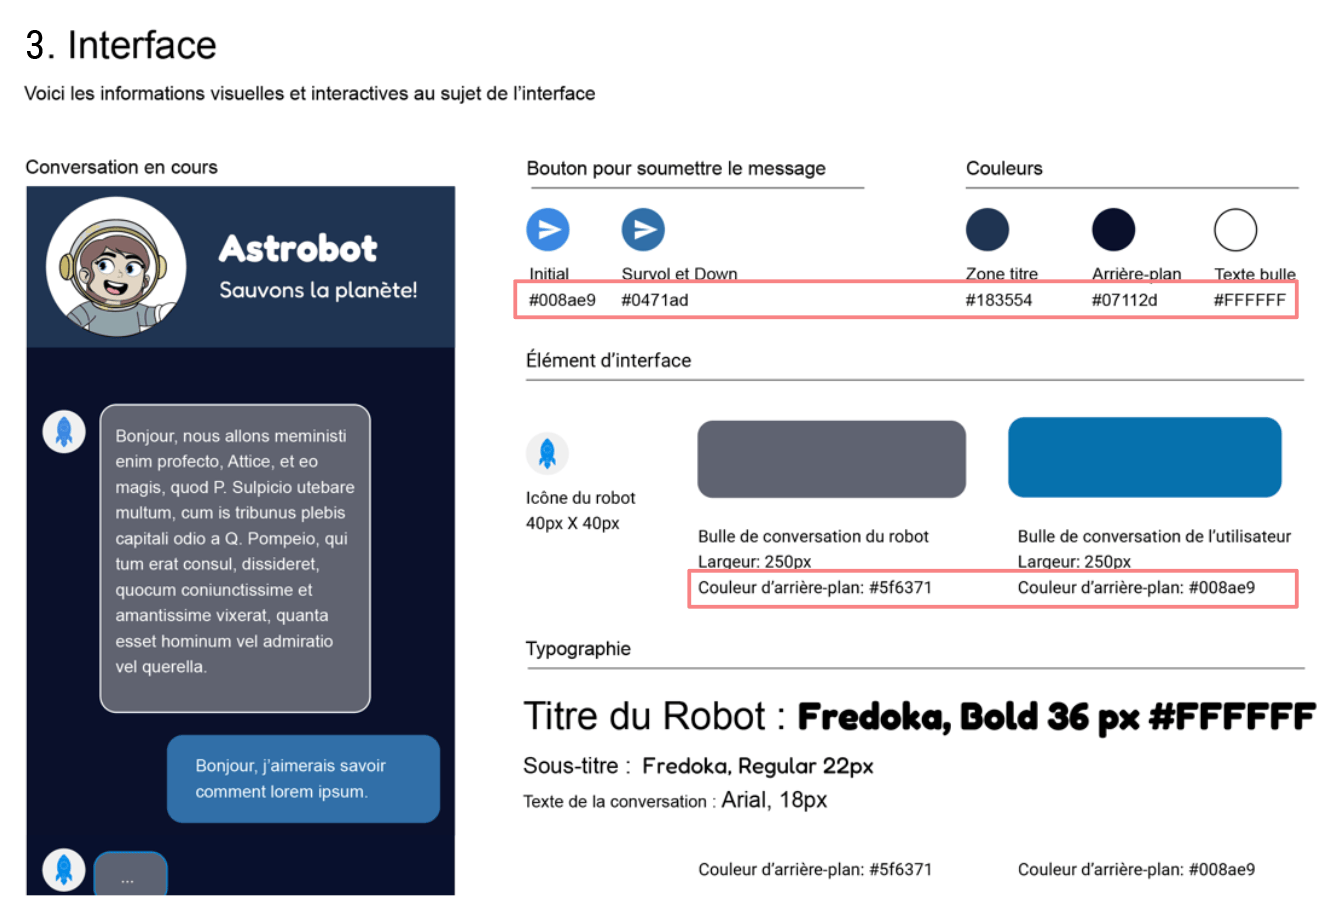
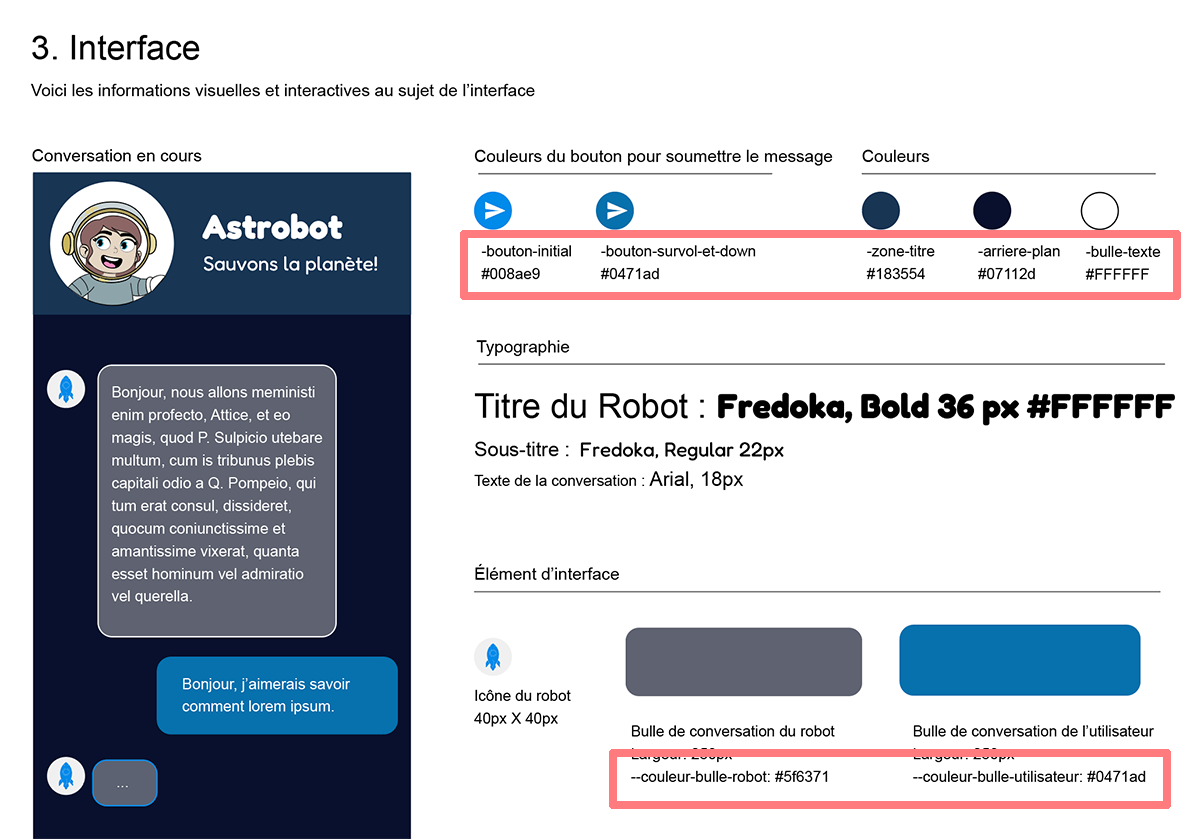
Robot - modifications apres rencontre de profs v2

diff --git a/robot/index.html b/robot/index.html
@@ -70,7 +70,7 @@
       <h1>Assemblage d’un robot conversationnel</h1>
       <div class="row">
         <div class="col-sm-7">
-          <p>Un robot conversationnel est un programme informatique conçu pour simuler une discussion avec un utilisateur.</p>
+          <p>Un robot conversationnel est un programme informatique conçu pour simuler une discussion avec un&nbsp;utilisateur.</p>
           <p>Dans cette activité, tu vas assembler et personnaliser un robot conversationnel.</p>
           <h2>L'activité est divisée en 5&nbsp;parties&nbsp;:</h2>
           <ol type="A">
@@ -109,21 +109,40 @@
             <div class="row">
                 <div class="col">
                   <ol class="procedures" start="3">
-                  <li>Dans ton explorateur de fichiers, <strong>ouvre le dossier</strong> <code>Techno Branche Etu</code> et observe son contenu.
+                  <li>Dans ton explorateur de fichiers, <strong>ouvre le dossier</strong> <code>Techno Branche Etu</code> qui correspond à ton groupe (A, B ou C).</li>
+                  <li><strong>Observe</strong> le contenu de ce dossier.
                     <ul>
-                      <li>Le dossier <code>Exercice</code> contient les fichiers <code>index.html</code> et les sous-dossiers <code>css</code>, <code>images</code>, <code>js</code> et <code>sounds</code>.</li>
                       <li>Le dossier <code>Matériel</code> contient le visuel des six thématiques disponibles.</li>
+                      <li>Le dossier <code>Exercice</code> contient les fichiers <code>index.html</code> et les sous-dossiers <code>css</code>, <code>images</code>, <code>js</code> et <code>sounds</code>.</li>
                     </ul>
                   </li>
                   <li>Ouvre le prototype de départ: dans le dossier <code>Exercice</code>, <strong>double-clique sur le fichier</strong> <code>index.html</code> pour l'ouvrir dans un navigateur.</li>
                   <li><strong>Écris un message</strong> au robot conversationnel dans le champ prévu à cet effet et celui-ci te répondra avec une phrase aléatoire.</li>
                 </ol>
               </div>
-              <div class="col">
+              <div class="col text-center">
                 <figure class="figure">
+                  <img src="images/pc/dossier-depart-windows.jpg" alt="Dossier de départ">
+                  <figcaption>Ouvre le dossier correspondant à ton&nbsp;groupe: A, B ou C.</figcaption>
+                </figure>
+                <div class="row">
+                  <div class="col">
+                    <figure class="figure">
+                  <img src="images/pc/dossier-materiel.jpg" alt="Contenu du dossier Materiel">
+                  <figcaption>Contenu du dossier <code>Materiel</code>.</figcaption>
+                </figure>
+                  </div>
+                  <div class="col">
+                    <figure class="figure">
+                  <img src="images/pc/dossier-exercice.jpg" alt="Contenu du dossier Exercice">
+                  <figcaption>Contenu du dossier <code>Exercice</code>.</figcaption>
+                </figure>
+                  </div>
+                </div>
+                <!-- <figure class="figure">
                   <img src="images/mac/dossier-depart.png" alt="Contenu du dossier de départ">
                   <figcaption>Contenu du dossier de départ.</figcaption>
-                </figure>
+                </figure> -->
               </div>
             </div>
             
@@ -146,7 +165,6 @@
             <img class="me-3" src="images/illustrator.svg" alt="Adobe Illustrator" width="80">
             <div>
               <p class="section-intro">Créer l’identité visuelle de ton robot conversationnel avec <strong>Adobe Illustrator, un logiciel de création graphique vectorielle.</strong></p>
-              <p>Toutes les illustrations que tu vas observer dans les prochaines étapes ont été conçues par une personne diplômée du programme TIM. Leur conception fait partie des compétences développées dans le programme.</p>
               
             </div>
           </div>
@@ -157,11 +175,12 @@
             <div class="row">
               <div class="col">
                 <p>Le dossier <code>Matériel</code> contient un fichier Illustrator pour chacune des six thématiques proposées.</p>
-                <p>Les noms de fichier se terminant par «&nbsp;.ai&nbsp;» indiquent qu'ils ont été créés avec Adobe Illustrator. </p>
+                <p>Les noms de fichier se terminant par «&nbsp;.ai&nbsp;» indiquent qu'ils ont été créés avec le logiciel Adobe Illustrator. </p>
                 </div>
               <div class="col">
                 <figure class="figure">
-                  <img src="images/mac/dossier-materiel.png" alt="Contenu du dossier Matériel">
+                  <img src="images/pc/dossier-materiel-choix.jpg" alt="Contenu du dossier Matériel" style="width:250px;">
+                  <!-- <img src="images/mac/dossier-materiel.png" alt="Contenu du dossier Matériel"> -->
                   <figcaption>Contenu du dossier Matériel.</figcaption>
                 </figure>
               </div>
@@ -172,38 +191,38 @@
               <div class="col">
                 <div class="theme">
                   <span>La mode</span>
-                  <img src="images/exemple-mode.png" alt="Avatar associé à la thématique de la mode">
+                  <img src="images/avatar-mode.png" alt="Avatar associé à la thématique de la mode">
                 </div>
               </div>
               <div class="col">
                 <div class="theme">
                 <span>La musique</span>
-                <img src="images/exemple-musique.png" alt="Avatar associé à une thématique musicale">
+                <img src="images/avatar-musique.png" alt="Avatar associé à une thématique musicale">
                 
               </div>
               </div>
               <div class="col">
                 <div class="theme">
                 <span>La cuisine</span>
-                <img src="images/exemple-cuisine.png" alt="Avatar associé à la cuisine">
+                <img src="images/avatar-cuisine.png" alt="Avatar associé à la cuisine">
               </div>
               </div>
               <div class="col">
                 <div class="theme">
                 <span>Les gardiens de la&nbsp;planète</span>
-                <img src="images/exemple-gardiens.png" alt="Avatar associé aux gardiens de la planète">
+                <img src="images/avatar-gardiens.png" alt="Avatar associé aux gardiens de la planète">
                 
               </div>
               </div>
               <div class="col">
                 <div class="theme">
                 <span>Le sport</span>
-                <img src="images/exemple-sport.png" alt="Avatar associé au sport">
+                <img src="images/avatar-sport.png" alt="Avatar associé au sport">
               </div>
               </div>
               <div class="col">
                 <div class="theme">
-                <span>Les jeux vidéo</span><img src="images/exemple-jeux-video.png" alt="Avatar associé aux jeux vidéo">
+                <span>Les jeux vidéo</span><img src="images/avatar-jeux-video.png" alt="Avatar associé aux jeux vidéo">
                 
               </div>
               </div>
@@ -239,6 +258,8 @@
                 <li>Superpose plusieurs éléments pour créer des effets originaux.</li>
                 <li>Expérimente jusqu’à obtenir la combinaison qui te plaît.</li>
               </ol>
+              <div class="question"><p><strong>Qui a créé les illustrations ?</strong></p>
+                <p>Toutes les illustrations que tu voir dans la bibliothèque d'éléments ont été conçues par une personne diplômée du programme TIM. Leur conception fait partie des compétences développées dans le programme.</p></div>
               </div>
               <div class="col">
                 <figure class="figure large"><img src="images/12-creation-avatar-2.jpg" alt="Zone de préparation de l’avatar dans Illustrator"><figcaption>Déplace les pièces de ton choix dans cette zone pour assembler ton&nbsp;avatar.</figcaption></figure>
@@ -289,7 +310,8 @@
             </ol></div>
               <div class="col">
                 <figure class="figure">
-                  <img src="images/mac/clic-secondaire.png" alt="Un clic secondaire affiche des actions supplémentaires.">
+                  <!-- <img src="images/mac/clic-secondaire.png" alt="Un clic secondaire affiche des actions supplémentaires."> -->
+                  <img src="images/pc/clic-secondaire.jpg" alt="Un clic secondaire affiche des actions supplémentaires.">
                   <figcaption>Un clic secondaire affiche des actions supplémentaires.</figcaption>
                 </figure></div>
             </div>
@@ -301,7 +323,7 @@
         <section class="section-principale" id="html">
           <h2>C. HTML</h2>
           <div class="d-flex">
-            <img class="me-3" src="images/vscodium.svg" alt="Adobe Illustrator" width="80">
+            <img class="me-3" src="images/vscodium.svg" alt="VSC" width="80">
             <div>
               <p class="section-intro">Structurer l’information avec l'éditeur de code VSCodium (VSC).</p>
             </div>
@@ -309,19 +331,22 @@
 
           <section class="etape" id="etape-4">
             <span class="etape-numero">Étape 4 - Ouvrir un projet dans VSC</span>
+            <p>Dans cette section, tu vas intégrer ton avatar dans le robot conversationnel.</p>
             <div class="row">
-              <div class="col"><p>Dans cette section, tu vas intégrer ton avatar dans le robot conversationnel.</p>
+              <div class="col">
               <ol class="procedures">
                 <li>Ouvre VSC.</li>
-                <li>Clique sur <strong>File</strong> dans le menu du haut et assure-toi qu'un crochet&nbsp;(<i class="bi bi-check"></i>) apparaît à côté de l'option <strong>Auto-save</strong>. Cela t'assure que tes modifications sont enregistrées au fur et à mesure que tu travailles.</li>
+                <li><div class="row"><div class="col-sm-8">Clique sur <strong>File</strong> dans le menu du haut et <strong>assure-toi qu'un crochet&nbsp;(<i class="bi bi-check"></i>) apparaît</strong> à côté de l'option <strong>Auto&#8209;save</strong>. <br><br>Cela enregistrera tes modifications au fur et à mesure que tu travailles.</div><div class="col-sm-4"><img src="images/vsc-auto-save.jpg" alt="VSC Auto-Save"></div></div> </li>
                 <li>Va dans <strong>File > Open Folder...</strong> (<em>Fichier &gt; Ouvrir le dossier…</em>).</li>
-                <li>Sélectionne le dossier <code>Exercice</code>.</li>
-                <li>Clique sur <strong>Open</strong> (<em>Ouvrir</em>).</li>
+                <li>Trouve le dossier <code>Techno Branche Etu</code> correspondant à ton groupe (A, B ou C) et ensuite son sous-dossier <code>Exercice</code>.</li>
+                <li>Clique sur <strong>Select folder</strong> (<em>Sélectionner le dossier</em>).</li>
+                <!-- <li>Clique sur <strong>Open</strong> (<em>Ouvrir</em>).</li> -->
               </ol>
             </div>
             <div class="col">
               <figure class="figure">
-                <img src="images/mac/vsc-fenetre-ouvrir.png" alt="Fenêtre permettant de sélectionner le dossier Exercice dans VSC">
+                <img src="images/pc/vsc-fenetre-ouvrir.jpg" alt="Fenêtre permettant de sélectionner le dossier Exercice dans VSC">
+                <!-- <img src="images/mac/vsc-fenetre-ouvrir.png" alt="Fenêtre permettant de sélectionner le dossier Exercice dans VSC"> -->
                 <figcaption>Sélectionne le dossier <code>Exercice</code> dans VSC</figcaption>
               </figure>
             </div>
@@ -378,6 +403,7 @@
 
           <section class="etape" id="etape-6">
             <span class="etape-numero">Étape 6 - Intégrer ton avatar</span>
+            <div class="attention"><i class="bi bi-stopwatch"></i> <strong>Tu as manqué de temps pour terminer et exporter ton avatar lors des étapes précédentes? <br>&nbsp;&nbsp;&nbsp;&nbsp;&nbsp;&nbsp;Pas de panique! </strong><br>&nbsp;&nbsp;&nbsp;&nbsp;&nbsp;Six images d'avatar sont déjà prêtes pour toi dans le dossier <code>images</code>: <code>avatar-cuisine.png</code>, <code>avatar-gardiens.png</code>, etc.</div>
           <div class="row">
             <div class="col">
             <ol class="procedures">
@@ -400,8 +426,8 @@
             <div class="row">
               <div class="col">
                 <ol class="procedures">
-                            <li>Repère l’attribut <code>alt</code> dans la balise <code>&lt;img&gt;</code> de ton avatar.</li>
-                            <li>Modifie le texte pour qu’il décrive fidèlement ton image. Par exemple&nbsp; <code>Avatar d’un astronaute avec des lunettes de soleil</code>.</li>
+                            <li><strong>À la ligne 16</strong>, repère l’attribut <code>alt</code> dans la balise <code>&lt;img&gt;</code> de ton avatar.</li>
+                            <li>Modifie le texte pour qu’il décrive fidèlement ton image. Par exemple&nbsp;<code>Avatar d’un astronaute avec des lunettes de soleil</code>.</li>
                             <li>Rafraîchis (<i class="bi bi-arrow-clockwise"></i>) la page dans ton navigateur.</li>
                           </ol>
                 </div>
@@ -435,15 +461,15 @@
             <span class="etape-numero">Étape 8 - Ajuster les couleurs</span>
       <div class="row">
         <div class="col">
-          <p>Pour les prochaines étapes, consulte la section <strong><em>3.&nbsp; Interface</em></strong> du fichier Illustrator de ta thématique. Cette section contient les informations visuelles et interactives de l’interface&nbsp;:</p>
+          <p>Pour les prochaines étapes, consulte la section <strong><em>3.&nbsp;Interface</em></strong> du fichier Illustrator de ta thématique. Cette section contient les informations visuelles et interactives de l’interface&nbsp;:</p>
             <ul>
-              <li>les couleurs du bouton pour soumettre le message;</li>
-              <li>les couleurs générales et celles des bulles de conversation;</li>
-              <li>la typographie du titre et du sous-titre;</li>
-              <li>un aperçu visuel du résultat attendu;</li>
-              <li>le son à émettre lors de la réception d’une réponse.</li>
+              <li><i class="bi bi-palette"></i> <strong>les couleurs</strong> de l'interface (bouton, texte et bulles de conversation): ;</li>
+              <li><i class="bi bi-fonts"></i> <strong>la typographie</strong> du titre et du sous-titre;</li>
+              <li><i class="bi bi-eye"></i> <strong>un aperçu visuel</strong> du résultat attendu;</li>
+              <li><i class="bi bi-volume-down"></i> <strong>le son à émettre</strong> lors de la réception d’une réponse.</li>
             </ul>
-            <p>Chaque couleur est identifiée par un code hexadécimal qui débute par&nbsp;<code>#</code>. Par exemple, <code>#000000</code> correspond au noir et <code>#FFFFFF</code> au blanc.</p>
+            <div class="question"><p><strong>Chaque couleur est identifiée par un code hexadécimal</strong> qui débute par&nbsp;<code>#</code>. Par&nbsp;exemple, <code>#000000</code> correspond au noir et <code>#FFFFFF</code> au&nbsp;blanc.</p>
+              </div>
           </div>
         <div class="col">
           <figure class="figure">
@@ -457,7 +483,7 @@
 <div class="col"><ol class="procedures">
               <li>Dans VSC, ouvre le fichier <code>css/style.css</code>.</li>
               <li>Repère le conteneur <code>:root</code>. Des règles de style sont déjà prévues pour accueillir les couleurs de ta thématique.</li>
-              <li>En te fiant au fichier Illustrator, copie-colle ou retape les codes hexadécimaux aux bons endroits.</li>
+              <li>En te fiant au fichier Illustrator, copie-colle ou <strong>retape les <u>sept</u> codes hexadécimaux</strong> aux bons endroits.</li>
               <li>Rafraîchis (<i class="bi bi-arrow-clockwise"></i>) la page dans ton navigateur.</li>
             </ol></div>
 <div class="col">
@@ -471,9 +497,55 @@
             <div class="resultat"><strong>Résultat attendu</strong><br>Les couleurs de ton robot conversationnel devraient maintenant ressembler à l’exemple présenté dans Illustrator.</div>
             <div class="attention"><strong>Note importante</strong><br>Chaque code hexadécimal doit commencer par <code>#</code> (exemple&nbsp; <code>#FF5733</code>) et chaque ligne de code doit se terminer par un point-virgule <code>;</code>.</div>
             </section>
+<section class="etape" id="etape-9">
+            <span class="etape-numero">Étape 9 - Modifier le mini-avatar des bulles</span>
+      
+            <div class="row">
+              <div class="col">
+                <p>La bulle de discussion est présentement accompagnée d’un mini-avatar par défaut.</p>
+                <p>La section <strong><em>3. Interface</em></strong> du kit Illustrator prévoit une icône du robot conversationnel selon ta thématique.</p>
+              </div>
+                <div class="col">
+                  <figure class="figure">
+                  <img src="images/image45.png" alt="Aperçu du mini-avatar par défaut" style="width:270px;">
+                  <figcaption>Aperçu du mini-avatar par défaut.</figcaption>
+                </figure>
+                
+              </div>
+              </div>
+              <div class="row">
+              <div class="col">
+               
+             <p>Pour cette étape de l’activité, les icônes des mini-avatars ont déjà été exportées dans le dossier <code>exercice/images/mini-avatar/</code>.</p>
+              </div>
+                <div class="col">
+                  <figure class="figure">
+                  <img src="images/interface-vsc-mini-avatar.png" alt="Les mini-avatars sont déjà disponibles" style="width:270px;">
+                  <figcaption>Les mini-avatars sont déjà disponibles <br>dans ce dossier.</figcaption>
+                </figure>
+                
+              </div>
+              </div>
+            
+            <div class="astuce"><strong>À retenir</strong> — Contrairement à l’avatar principal, qui est modifié en HTML, le mini-avatar se modifie dans le fichier CSS.</div>
+            <div class="row">
+<div class="col"><ol class="procedures">
+              <li>Ouvre le fichier <code>css/style.css</code> dans VSC.</li>
+              <li><strong>À la ligne 43</strong>, repère la règle qui définit l’image d'arrière-plan (<em>background&#8209;image</em>) du mini-avatar.</li>
+              <li>Remplace le nom du fichier par celui de l’icône correspondant à ta thématique.</li>
+              <li>Rafraîchis (<i class="bi bi-arrow-clockwise"></i>) la page dans ton navigateur.</li>
+            </ol></div>
+<div class="col"><figure class="figure">
+  <img src="images/image46.png" alt="Exemple de chemin d’image dans une règle CSS">
+</figure></div>
 
-          <section class="etape" id="etape-9">
-            <span class="etape-numero">Étape 9 - Modifier la police de caractères <small>(Cette étape est optionnelle)</small></span>
+            </div>
+            
+            <div class="resultat"><strong>Résultat attendu</strong><br>Le mini-avatar devrait maintenant apparaître à côté des réponses du robot conversationnel, dans les bulles de discussion.</div>
+            
+          </section>
+          <section class="etape" id="etape-10">
+            <span class="etape-numero">Étape 10 - Modifier la police de caractères <small>(Cette étape est optionnelle)</small></span>
   
             <div class="row">
               <div class="col">
@@ -519,53 +591,7 @@
             <div class="resultat"><strong>Résultat attendu</strong><br>La police du titre et du sous-titre devrait maintenant correspondre à celle présentée dans Illustrator.</div>
           </section>
 
-          <section class="etape" id="etape-10">
-            <span class="etape-numero">Étape 10 - Modifier le mini-avatar des bulles</span>
-      
-            <div class="row">
-              <div class="col">
-                <p>La bulle de discussion est présentement accompagnée d’un mini-avatar par défaut.</p>
-                <p>La section <strong>3. Interface</strong> du kit Illustrator prévoit une icône du robot conversationnel selon ta thématique.</p>
-              </div>
-                <div class="col">
-                  <figure class="figure">
-                  <img src="images/image45.png" alt="Aperçu du mini-avatar par défaut" style="width:270px;">
-                  <figcaption>Aperçu du mini-avatar par défaut.</figcaption>
-                </figure>
-                
-              </div>
-              </div>
-              <div class="row">
-              <div class="col">
-               
-             <p>Pour cette étape de l’activité, les icônes des mini-avatars ont déjà été exportées dans le dossier <code>exercice/images/mini-avatar</code>.</p>
-              </div>
-                <div class="col">
-                  <figure class="figure">
-                  <img src="images/interface-vsc-mini-avatar.png" alt="Les mini-avatars sont déjà disponibles" style="width:270px;">
-                  <figcaption>Les mini-avatars sont déjà disponibles <br>dans ce dossier.</figcaption>
-                </figure>
-                
-              </div>
-              </div>
-            
-            <div class="astuce"><strong>À retenir</strong> — Contrairement à l’avatar principal, qui est modifié en HTML, le mini-avatar se modifie dans le fichier CSS.</div>
-            <div class="row">
-<div class="col"><ol class="procedures">
-              <li>Ouvre le fichier <code>css/style.css</code> dans VSC.</li>
-              <li>Repère la règle qui définit l’image de fond du mini-avatar.</li>
-              <li>Remplace le nom du fichier par celui de l’icône correspondant à ta thématique.</li>
-              <li>Rafraîchis (<i class="bi bi-arrow-clockwise"></i>) la page dans ton navigateur.</li>
-            </ol></div>
-<div class="col"><figure class="figure">
-  <img src="images/image46.png" alt="Exemple de chemin d’image dans une règle CSS">
-</figure></div>
-
-            </div>
-            
-            <div class="resultat"><strong>Résultat attendu</strong><br>Le mini-avatar devrait maintenant apparaître à côté des réponses du robot conversationnel, dans les bulles de discussion.</div>
-            
-          </section>
+          
         </section>
 
         <section class="section-principale" id="javascript">
@@ -595,7 +621,7 @@
             </div>
             
             <div class="resultat"><p><strong>Résultat attendu</strong><br>Un son devrait maintenant se faire entendre chaque fois que le robot conversationnel commence à répondre à ton message.</p>
-            <p><i class="bi bi-exclamation-triangle"></i> Assure-toi que les haut-parleurs de ton ordinateur sont activés pour entendre le son.</p></div>
+            <p><i class="bi bi-exclamation-triangle"></i> <strong>Assure-toi que les haut-parleurs de ton ordinateur sont activés</strong> pour entendre le&nbsp;son.</p></div>
             
           </section>
 
@@ -622,20 +648,21 @@
           </section>
         </section>
 
-        <section id="activite-completee">
+        <section id="activite-completee" class="section-principale">
           <h2>Bravo! Tu as complété l'activité.</h2>
           <div class="row">
-            <div class="col-md-3">
+            <div class="col-sm-3">
               <img src="images/image4.png" alt="Interface d'un robot conversationnel">
             </div>
-            <div class="col-md-9">
-              <p>En modifiant ce robot conversationnel, tu as expérimenté la réalisation d’un produit numérique et interactif à l’aide de plusieurs outils et technologies:</p>
+            <div class="col-sm-6">
+              <!-- <p>En modifiant ce robot conversationnel, tu as expérimenté la réalisation d’un produit numérique et interactif à l’aide de plusieurs outils et technologies:</p>
             <ul>
               <li><strong>Illustrator</strong> pour créer et modifier les éléments graphiques;</li>
               <li><strong>HTML</strong> pour structurer la page Web;</li>
               <li><strong>CSS</strong> pour mettre en forme et styliser la page;</li>
               <li><strong>JavaScript</strong> pour ajouter de l’interactivité.</li>
-            </ul></div>
+            </ul> -->
+          <p>Tu viens de découvrir comment différentes compétences peuvent se combiner pour donner vie à une expérience interactive.</p> <p class="section-intro">Dans le programme <strong>Techniques d’intégration multimédia</strong>, tu peux aller plus loin et apprendre à programmer des comportements plus complexes afin de personnaliser davantage le fonctionnement de ce type de système.</p></div>
             
           </div>
           
